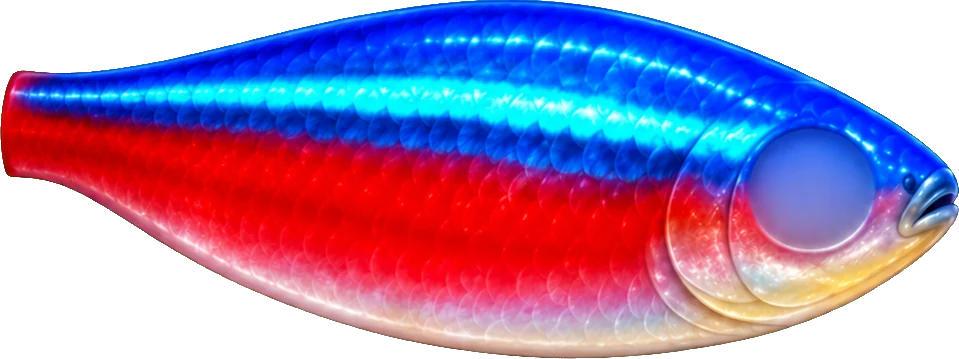
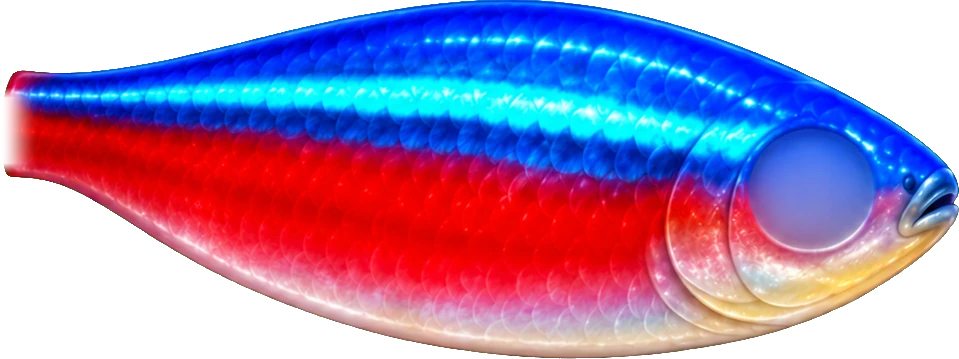
Deneme sayfası: kuyruk birleşimi gizlendi (gövde sap ucu yumuşatıldı, kuyruk bileziği gövde altına alındı); sırt/karın/alt yüzgeçler hızlıyken kapanır, dururken/dönerken/ürkünce açılır ve dalgalanır; kuyruk vururken açılır süzülürken toplanır; Japon balığı yan yüzgeci solungaç arkasına
Claude-Session: https://claude.ai/code/session_01GTKzrpGFKogU1xV51r4B1Q

Changed region(s): [[0.0, 0.2451, 0.0302, 0.4903]]

diff --git a/deneme/parcali.html b/deneme/parcali.html
@@ -93,6 +93,8 @@ function loadSpec(X,done){let left=X.O.length;
    let o,w;if(r.k==="tail"){o=r.cf[j];w=1-(gx-i)/gx/.45}else if(r.k==="top"){o=r.cf[i];w=1-(gy-j)/gy/.5}else{o=r.cf[i];w=1-j/gy/.5}
    if(o&&w>0){w=w*w*(3-2*w);B[k]+=o[0]*w;B[k+1]+=o[1]*w}}U[k]=i/gx;U[k+1]=j/gy;k+=2}
   const I=[],Li=[];for(let j=0;j<gy;j++)for(let i=0;i<gx;i++){const a=j*(gx+1)+i,b=a+1,cc=a+gx+1,d=cc+1;I.push(a,b,cc,b,d,cc);Li.push(a,b,a,cc)}
+  const Qd=new Float32Array(n1);for(let j=0;j<=gy;j++)for(let i=0;i<=gx;i++)Qd[j*(gx+1)+i]=r.k==="tail"?(gx-i)/gx:r.k==="top"?(gy-j)/gy:j/gy;
+  r.Qd=Qd;r.FH=(r.k==="tail"?r.w:r.h)*r.s;
   r.B=B;r.P=new Float32Array(n1*2);r.n=I.length;r.nl=Li.length;r.len=Math.max(r.w,r.h)*r.s;
   r.vao=gl.createVertexArray();gl.bindVertexArray(r.vao);
   r.pb=gl.createBuffer();gl.bindBuffer(gl.ARRAY_BUFFER,r.pb);gl.bufferData(gl.ARRAY_BUFFER,r.P,gl.DYNAMIC_DRAW);gl.enableVertexAttribArray(aL);gl.vertexAttribPointer(aL,2,gl.FLOAT,false,0,0);
@@ -104,13 +106,20 @@ function loadSpec(X,done){let left=X.O.length;
 // Koi (sazan) gözlemine göre: dalga gövdenin arka yarısında büyür, hızlanınca vuruş genişliği değil sıklığı artar,
 // birkaç vuruştan sonra süzülür; yan yüzgeçler yavaşken açılıp kürek çeker, hızlı süzülürken gövdeye yatar; dönüşte baş önce döner.
 const sm=(a,b,x)=>{const t=Math.max(0,Math.min(1,(x-a)/(b-a)));return t*t*(3-2*t)};
-function field(r,X,Y,S){const HEAD=SP.head,TIP=SP.tip,LEN=HEAD-TIP,u=Math.max(0,Math.min(1,(HEAD-X)/LEN)),k=r.k,A=S.amp,ph=S.w-5.2*u;
+function field(r,X,Y,S,vi){const qd=vi!=null&&r.Qd?r.Qd[vi]:-1;const HEAD=SP.head,TIP=SP.tip,LEN=HEAD-TIP,u=Math.max(0,Math.min(1,(HEAD-X)/LEN)),k=r.k,A=S.amp,ph=S.w-5.2*u;
  const env=Math.pow(u,2.3);let dy=A*LEN*.028*MP.stiff*Math.sin(ph)*env+S.bend*LEN*.06*u*u,dx=0;
  const t0=SP.R.kuyruk.at[0]+10,tq=sm(t0,TIP,X);dx+=(t0-X)*.28*Math.min(1,A*1.4)*Math.pow(Math.sin(ph),2)*tq;dy+=A*LEN*.022*Math.sin(ph-1.0)*tq*tq;
- if(k==="tail"){const q=sm(t0,TIP+30,X);dy+=(A*10+3)*MP.tail*Math.sin(S.w*.9-1.7-(SP.cy-Y)/80)*q*q}
- if(k==="top"||k==="anal"||k==="pelv"){const fh=r.h*r.s,d=k==="pelv"?Math.min(1.2,Math.hypot(X-r.at[0],Y-r.at[1])/r.len):Math.min(1.2,Math.abs(Y-r.at[1])/fh+Math.max(0,r.at[0]-X)/(r.w*r.s)*.35),wv=S.w*.85-d*2.3-X/110,FN=MP.fin;
-   dx+=((-5-8*A)*Math.sin(wv)*FN-S.spd*22)*d*d;dy+=(k==="top"?-1:1)*(3+3*A)*FN*Math.sin(wv+.8)*d*d;
-   if(k==="top")dy+=(Y-r.at[1])*(-.22*S.fold)}
+ if(k==="tail"){const q=sm(t0,TIP+30,X);dy+=(A*10+3)*MP.tail*Math.sin(S.w*.9-1.7-(SP.cy-Y)/80)*q*q;
+   // kuyruk: vururken açılır, süzülürken/dururken biraz toplanır (ışınlar birbirine yaklaşır)
+   if(qd>=0){const c=r.at[1];dy+=(c-Y)*.2*(1-S.tsp)*qd*qd}}
+ if((k==="top"||k==="anal"||k==="pelv")&&qd>=0){const o=qd*r.FH,FN=MP.fin,er=1-S.fold;
+   // dalgalanma: dipten uca gecikmeli; dururken (yüzgeç açıkken) daha belirgin — balık ince ayarı yüzgeçleriyle yapar
+   const wv=S.w*.85-qd*2.3-X/110,ra=(.35+.65*er)*FN;
+   dx+=((-5-8*A)*Math.sin(wv)*ra-S.spd*18)*qd*qd;dy+=(k==="top"?-1:1)*(3+3*A)*ra*Math.sin(wv+.8)*qd*qd;
+   // kapanma: hızlıyken ışınlar geriye yatar, yüzgeç alçalır; dururken/dönerken/ürkünce dikleşir
+   const f=S.fold;dx-=o*.62*f;dy+=(k==="top"?1:-1)*o*.5*f;
+   // ürkünce bir an fazladan açılır
+   if(S.flare>0)dy+=(k==="top"?-1:1)*o*.12*S.flare}
  if(k==="pect"){const d=Math.max(0,Math.min(1,Math.hypot(X-r.at[0],Y-r.at[1])/r.len)),f=S.f+(r.far?Math.PI*.85:0)-d*1.4;
    const open=1-S.fold,o=.5+.5*Math.sin(f),fx=r.at[0]-X,fy=Y-r.at[1];
    dx+=fx*(.18+.45*S.fold)+fx*.35*open*o;dy+=(-fy*(.45*S.fold+.2*open*o)+7*MP.pectA*open*Math.sin(f+.6))*d;dx*=MP.pectA>1?1+(MP.pectA-1)*.5:1}
@@ -130,7 +139,7 @@ function setMode(v){const list=v==="hepsi"?Object.keys(MPS):[v];ALL=v==="hepsi";
  for(const k of list){const X=SPEC[k];if(X.R.govde.vao){if(--left===0)ready()}else loadSpec(X,()=>{if(--left===0)ready()})}}
 cv.addEventListener("pointerdown",e=>{if(!FISH.length)return;const now=performance.now();let best=null,bd=1e9;
  for(const f of FISH){f.F.lookAt=[e.clientX,e.clientY];f.F.lookUntil=now+1600;const d=Math.hypot(f.F.x*W-e.clientX,f.F.y*H-e.clientY);if(d<bd){bd=d;best=f}}
- const G=best.F;G.turnCool=0;G.tap=1;G.pickT=now;G.tx=e.clientX/W;G.ty=Math.min(.75,Math.max(.15,e.clientY/H));G.urg=1;if(G.mode!=="turn"){G.mode="burst";G.beats=Math.max(2,Math.min(5,1+Math.hypot((G.tx-G.x)*W,(G.ty-G.y)*H)/120|0))}});
+ const G=best.F;G.flare=1;G.turnCool=0;G.tap=1;G.pickT=now;G.tx=e.clientX/W;G.ty=Math.min(.75,Math.max(.15,e.clientY/H));G.urg=1;if(G.mode!=="turn"){G.mode="burst";G.beats=Math.max(2,Math.min(5,1+Math.hypot((G.tx-G.x)*W,(G.ty-G.y)*H)/120|0))}});
 document.getElementById("p").addEventListener("click",e=>{const b=e.target.closest("button");if(!b)return;const k=b.dataset.k;opt[k]=!opt[k];b.classList.toggle("on",opt[k])});
 const MODEN={glide:"süzülüyor",burst:"kuyruk vuruşu",hover:"durup kürek çekiyor",turn:"dönüyor"};
 function step(fish,now,dt){F=fish.F;SP=fish.sp;MP=fish.mp;const BLpx=lenPx(fish);
@@ -152,7 +161,8 @@ function step(fish,now,dt){F=fish.F;SP=fish.sp;MP=fish.mp;const BLpx=lenPx(fish)
  {const mg=Math.min(.45,BLpx*.5/W+.02);if((F.dir<0&&F.x<mg+.08)||(F.dir>0&&F.x>1-mg-.08)){if(!F.tap&&F.mode!=="turn"&&F.mode!=="hover"){F.v*=1-dt*2;if(Math.sign(F.tx-F.x)===F.dir)pick()}}F.x=Math.max(mg,Math.min(1-mg,F.x));if(F.tap)F.tx=Math.max(mg,Math.min(1-mg,F.tx))}{const yb=Math.max(.12,Math.min(.8,F.y));if(yb!==F.y){F.y=yb;F.pitch*=.9}}
  F.spd=Math.min(1,F.v/(1.2*MP.sp));
  const ampT=(F.mode==="burst"?.5+.08*F.urg:F.mode==="turn"?.35:F.mode==="hover"?.12:.08)*MP.amp;F.amp+=(ampT-F.amp)*Math.min(1,dt*3.5);
- const foldT=F.mode==="hover"||F.mode==="turn"?0:F.spd>.45?.85:.35;F.fold+=(foldT-F.fold)*Math.min(1,dt*2.5);
+ const foldT=F.urg>.6||F.mode==="hover"||F.mode==="turn"?0:F.spd>.45?.75:.3;F.fold+=(foldT-F.fold)*Math.min(1,dt*(foldT<F.fold?5:1.8));
+ const tspT=F.mode==="burst"||F.mode==="turn"?1:0;F.tsp=(F.tsp||0)+(tspT-(F.tsp||0))*Math.min(1,dt*3);F.flare=Math.max(0,(F.flare||0)-dt*1.6);
  F.f+=dt*(F.mode==="hover"?4.2:2.6)*MP.pect;F.b+=dt*(F.mode==="hover"?3:2.2);
  if(now>F.lookT){F.lookT=now+500+Math.random()*1600;F.look=[Math.random()*2-1,Math.random()*1.4-.7]}}
 function draw(fish,now,dt){F=fish.F;SP=fish.sp;MP=fish.mp;
@@ -162,14 +172,14 @@ function draw(fish,now,dt){F=fish.F;SP=fish.sp;MP=fish.mp;
  const pc=Math.cos(F.pitch),ps=Math.sin(F.pitch),C0=SP.c[0],C1=SP.c[1];
  const tx=fx-sc*C0,ty2=fy-sc*C1;
  gl.uniformMatrix3fv(ML,false,new Float32Array([sc*2/W,0,0, 0,-sc*2/H,0, tx*2/W-1,1-ty2*2/H,1]));
- const S={w:F.w,f:F.f,b:F.b,amp:opt.parts?F.amp:0,fold:F.fold,spd:F.spd||0,bend:opt.parts?F.bend:0};
+ const S={w:F.w,f:F.f,b:F.b,amp:opt.parts?F.amp:0,fold:F.fold,spd:F.spd||0,bend:opt.parts?F.bend:0,tsp:F.tsp||0,flare:F.flare||0};
  const turning=F.mode==="turn",P0=F.turnP,from=F.turnFrom,to=F.dir;
  const dirAt=X=>{if(!turning)return to;const u=Math.max(0,Math.min(1,(SP.head-X)/(SP.head-SP.tip))),p=Math.max(0,Math.min(1,P0*1.2-u*.2)),e=p*p*(3-2*p),d=from*Math.cos(e*Math.PI);return Math.abs(d)<.14?.14*Math.sign(d||to):d};
  const eR=SP.R.goz.w*SP.R.goz.s;
  for(const n of SP.O){const r=SP.R[n],B=r.B,P=r.P;if(!B)continue;
   if(r.k==="eye"||r.k==="pupil"){const e=opt.parts?field(SP.R.govde,r.at[0],r.at[1],S):[0,0],ex=r.k==="pupil"&&opt.parts?F.sac[0]*eR*.09:0,ey=r.k==="pupil"&&opt.parts?F.sac[1]*eR*.07:0,sx=dirAt(r.at[0]);
    for(let k=0;k<B.length;k+=2){const X=B[k]+e[0]+ex-C0,Y=B[k+1]+e[1]+ey-C1;P[k]=C0+(X*pc-Y*ps)*sx;P[k+1]=C1+X*ps+Y*pc}}
-  else for(let k=0;k<B.length;k+=2){let X=B[k],Y=B[k+1];const sx=dirAt(X);if(opt.parts){const v=field(r,X,Y,S);X+=v[0];Y+=v[1]}X-=C0;Y-=C1;P[k]=C0+(X*pc-Y*ps)*sx;P[k+1]=C1+X*ps+Y*pc}
+  else for(let k=0;k<B.length;k+=2){let X=B[k],Y=B[k+1];const sx=dirAt(X);if(opt.parts){const v=field(r,X,Y,S,k>>1);X+=v[0];Y+=v[1]}X-=C0;Y-=C1;P[k]=C0+(X*pc-Y*ps)*sx;P[k+1]=C1+X*ps+Y*pc}
   gl.bindVertexArray(r.vao);gl.bindBuffer(gl.ARRAY_BUFFER,r.pb);gl.bufferSubData(gl.ARRAY_BUFFER,0,P);gl.bindTexture(gl.TEXTURE_2D,r.tex);
   gl.uniform1f(DL,r.dim||1);gl.uniform1f(LL,0);gl.bindBuffer(gl.ELEMENT_ARRAY_BUFFER,r.ib);gl.drawElements(gl.TRIANGLES,r.n,gl.UNSIGNED_SHORT,0);
   if(opt.debug&&r.k!=="eye"&&r.k!=="pupil"){gl.uniform1f(LL,1);gl.bindBuffer(gl.ELEMENT_ARRAY_BUFFER,r.lb);gl.drawElements(gl.LINES,r.nl,gl.UNSIGNED_SHORT,0)}}
